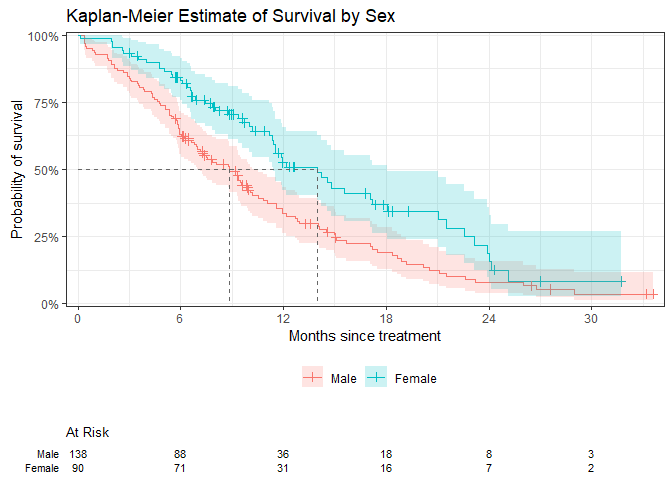
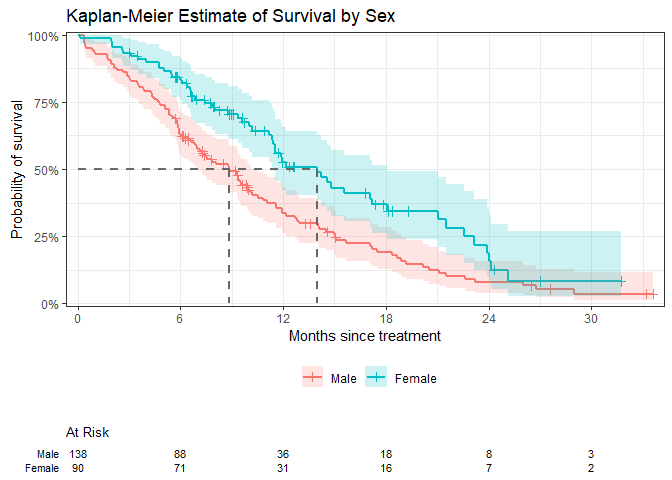
doc updates

diff --git a/README.md b/README.md
@@ -49,11 +49,11 @@ library(ggplot2)
 
 p <- 
   survfit2(Surv(time, status) ~ sex, data = df_lung) |>
-  ggsurvfit() +
+  ggsurvfit(size = 1) +
   add_censor_mark() +
   add_confidence_interval() +
   add_risktable() +
-  add_quantile(color = "gray40")
+  add_quantile(color = "gray40", size = 1)
 p
 ```
 
